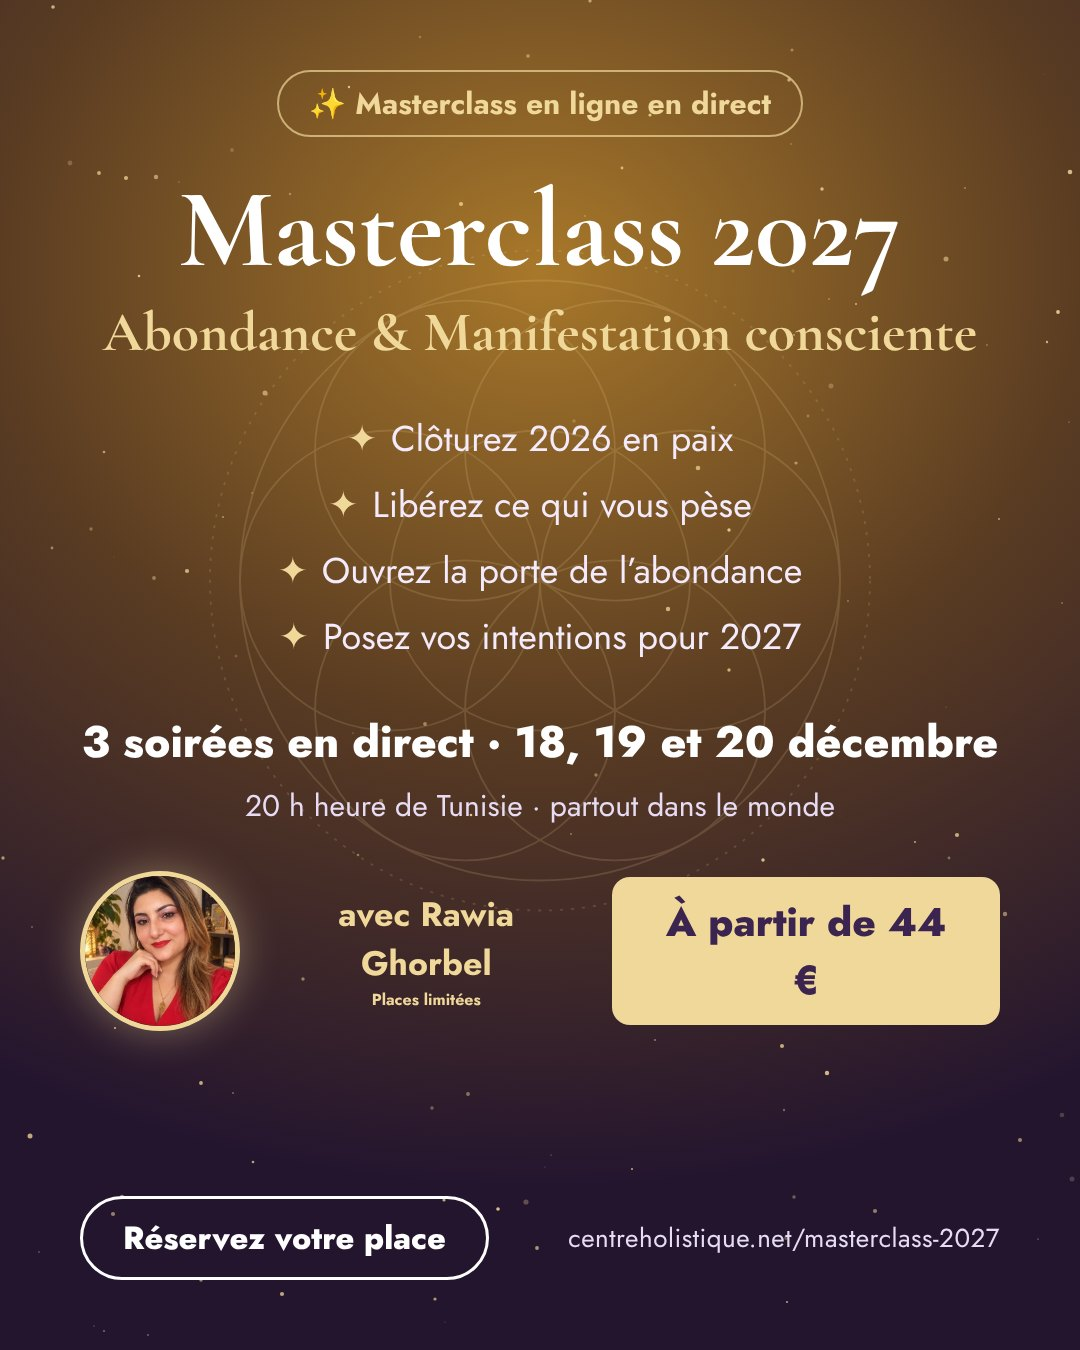
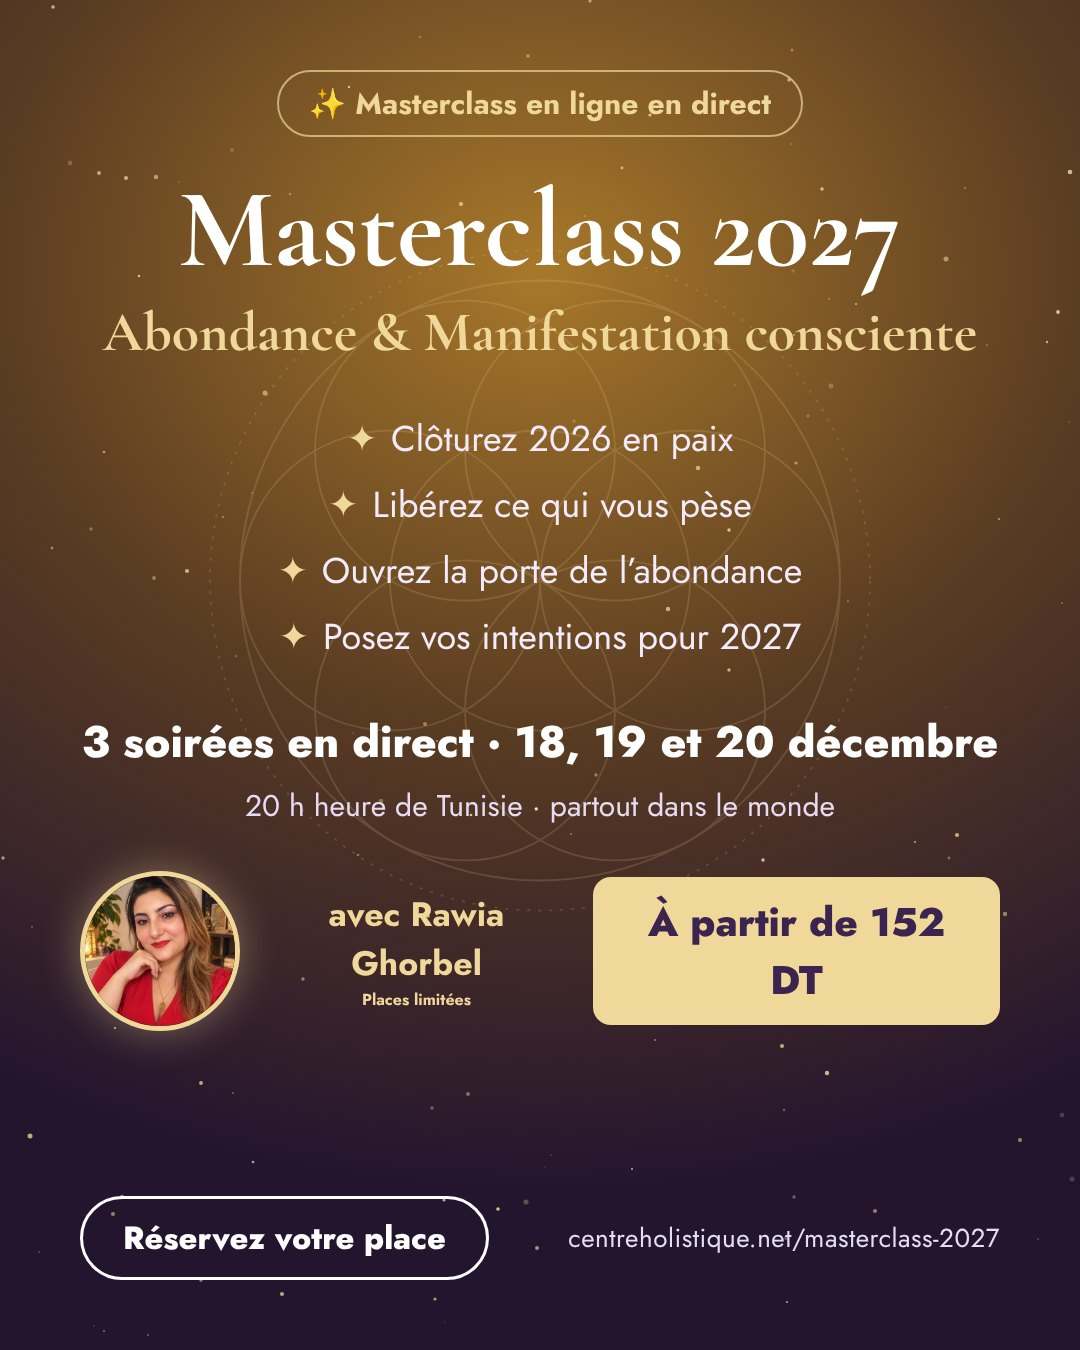
Masterclass: price shown in Tunisian dinars first (images and page)
Visitors using another currency also see the converted price in small.

Claude-Session: https://claude.ai/code/session_01ReMr7DWTXfkfywxMdPP7wi

Changed region(s): [[0.6111, 0.6533, 0.8861, 0.7467], [0.3056, 0.6533, 0.4889, 0.7467], [0.55, 0.6533, 0.5806, 0.7778]]

diff --git a/assets/masterclass.js b/assets/masterclass.js
@@ -94,8 +94,10 @@
     // two offers = the course levels (prices set in the dashboard: 🎓 courses)
     const c = course(), lv = (c && c.niveaux) || [], money = window.CH ? window.CH.money : (p => p && p.eur + ' €');
     const L = window.CH ? window.CH.L : (v => v && v.ar);
+    const tndOf = pr => (pr && pr.tnd && window.CH) ? window.CH.fmtMoney(+pr.tnd, 'tnd') : money(pr);
+    const priceHtml = pr => { const a = tndOf(pr), b = money(pr); return b && b !== a ? `${a} <small class="mc-alt">(≈ ${b})</small>` : a; };
     $('#k-offers').innerHTML = [0, 1].filter(i => lv[i]).map(i => `<article class="mc-offer${i === 1 ? ' vip' : ''}">${i === 1 ? `<span class="mc-badge">⭐ VIP</span>` : `<span class="mc-badge soft">${esc(m('most'))}</span>`}
-        <h3>${esc(L(lv[i].nom))}</h3><div class="mc-price">${money(lv[i].prix)}</div>
+        <h3>${esc(L(lv[i].nom))}</h3><div class="mc-price">${priceHtml(lv[i].prix)}</div>
         <ul>${m(i ? 'o2' : 'o1').map(x => `<li>${esc(x)}</li>`).join('')}</ul>
         <button class="btn ${i ? 'btn-gold' : 'btn-primary'} btn-block" data-mc="${i}">${esc(m('book'))}</button></article>`).join('');
     const tz = (window.CH && window.CH.tz) || Intl.DateTimeFormat().resolvedOptions().timeZone;
@@ -103,11 +105,11 @@
     const fx = $('#k-facts');
     if (fx) {
       const row = (ic, k, v) => `<li><span class="mc-f-ic" aria-hidden="true">${ic}</span><div><b>${esc(m(k))}</b><span>${esc(m(v))}</span></div></li>`;
-      const p0 = lv[0] ? money(lv[0].prix) : '', p1 = lv[1] ? money(lv[1].prix) : '';
+      const p0 = lv[0] ? tndOf(lv[0].prix) : '', p1 = lv[1] ? tndOf(lv[1].prix) : '', p0alt = lv[0] ? money(lv[0].prix) : '';
       const localT = !recorded() && fmtWhen(SESSIONS[0], tz) !== fmtWhen(SESSIONS[0], 'Africa/Tunis')
         ? `<li class="mc-f-local"><span class="mc-f-ic" aria-hidden="true">🌍</span><div><span>${esc(new Date(SESSIONS[0]).toLocaleTimeString(lg() === 'ar' ? 'ar-TN' : lg() === 'fr' ? 'fr-FR' : 'en-GB', { timeZone: tz, hour: '2-digit', minute: '2-digit' }))} · ${esc(tz)}</span></div></li>` : '';
       fx.innerHTML = `<h2 class="mc-f-t">${esc(m('f_title'))}</h2>
-        ${p0 ? `<div class="mc-f-price"><span>${esc(m('f_price'))}</span><strong>${p0}</strong>${p1 ? `<small>${esc(m('f_vip'))} <b>${p1}</b></small>` : ''}</div>` : ''}
+        ${p0 ? `<div class="mc-f-price"><span>${esc(m('f_price'))}</span><strong>${p0}</strong>${p0alt && p0alt !== p0 ? `<small class="mc-alt">≈ ${p0alt}</small>` : ''}${p1 ? `<small>${esc(m('f_vip'))} <b>${p1}</b></small>` : ''}</div>` : ''}
         <ul class="mc-f-list">${row('📅', 'f_dates', 'f_dates_v')}${row('🕗', 'f_time', 'f_time_v')}${localT}${row('💻', 'f_where', 'f_where_v')}${row('🎧', 'f_rec', 'f_rec_v')}${row('🗣', 'f_lang', 'f_lang_v')}</ul>
         <button class="btn btn-gold btn-block" data-mc="0">${esc(m('book'))}${p0 ? ' · ' + p0 : ''}</button>
         <a class="mc-f-more" href="#offres">${esc(m('f_compare'))}</a>
@@ -115,7 +117,7 @@
     }
     // show the price on the main hero button too (visible on the first screen on phones)
     const heroCta = document.querySelector('.hero-cta [data-k="cta"]');
-    if (heroCta && lv[0]) heroCta.innerHTML = `${esc(m('cta'))} · <bdi><b>${money(lv[0].prix)}</b></bdi>`;
+    if (heroCta && lv[0]) heroCta.innerHTML = `${esc(m('cta'))} · <bdi><b>${tndOf(lv[0].prix)}</b></bdi>`;
     $('#k-times').innerHTML = recorded() ? '' : SESSIONS.map((s, i) => `<li><b>${esc(m('days')[i][0].split(' · ')[0])}</b><span>${esc(fmtWhen(s, tz))}</span>${fmtWhen(s, tz) !== fmtWhen(s, 'Africa/Tunis') ? `<small>${esc(fmtWhen(s, 'Africa/Tunis'))} (${esc(m('tunis'))})</small>` : ''}</li>`).join('');
     $('#k-faq').innerHTML = m('faq').map(([q, r]) => `<details><summary>${esc(q)}</summary><p>${esc(r)}</p></details>`).join('');
     const portrait = window.CH && window.CH.getData() && (window.CH.getData().settings || {}).portrait;

diff --git a/masterclass-2027.html b/masterclass-2027.html
@@ -19,7 +19,7 @@
   <link rel="preconnect" href="https://fonts.googleapis.com">
   <link rel="preconnect" href="https://fonts.gstatic.com" crossorigin>
   <link href="https://fonts.googleapis.com/css2?family=Tajawal:wght@400;500;700;800&family=Cormorant+Garamond:wght@500;600&family=Jost:wght@400;500;600;700&display=swap" rel="stylesheet">
-  <link rel="stylesheet" href="assets/style.css?v=20261123b">
+  <link rel="stylesheet" href="assets/style.css?v=20261123c">
   <link rel="stylesheet" href="assets/seo.css?v=20261123a">
   <script type="application/ld+json">{"@context":"https://schema.org","@type":"Event","name":"Masterclass 2027 : Abondance & Manifestation consciente","startDate":"2026-12-18T20:00:00+01:00","endDate":"2026-12-20T21:30:00+01:00","eventAttendanceMode":"https://schema.org/OnlineEventAttendanceMode","eventStatus":"https://schema.org/EventScheduled","location":{"@type":"VirtualLocation","url":"https://www.centreholistique.net/masterclass-2027.html"},"image":"https://www.centreholistique.net/assets/promo/mc2027-og.jpg","organizer":{"@type":"Person","name":"Rawia Ghorbel","url":"https://www.centreholistique.net/rawia-ghorbel.html"},"offers":[{"@type":"Offer","price":"44","priceCurrency":"EUR","availability":"https://schema.org/InStock","url":"https://www.centreholistique.net/masterclass-2027.html"},{"@type":"Offer","price":"125","priceCurrency":"EUR","availability":"https://schema.org/InStock","url":"https://www.centreholistique.net/masterclass-2027.html"}],"inLanguage":["ar","fr"]}</script>
 </head>
@@ -166,6 +166,6 @@
 <script src="assets/app.js?v=20261123a"></script>
 <script src="assets/consent.js?v=20261123a"></script>
 <script src="assets/fx3d.js?v=20261123a" defer></script>
-<script src="assets/masterclass.js?v=20261123d"></script>
+<script src="assets/masterclass.js?v=20261123e"></script>
 </body>
 </html>

diff --git a/seo/build-promo.js b/seo/build-promo.js
@@ -12,11 +12,11 @@ const T = {
   ar: { dir: 'rtl', kicker: 'ماستركلاس مباشر عن بُعد', t1: 'ماستركلاس 2027', t2: 'الوفرة والتجلّي الواعي',
     lines: ['اختم 2026 بسلام', 'حرّر ما أثقلك', 'افتح باب الوفرة', 'ضع نواياك لعام 2027 بوعي'],
     when: '3 أمسيات مباشرة · 18 و19 و20 ديسمبر', time: 'الساعة 20:00 بتوقيت تونس · من أي مكان في العالم',
-    price: 'ابتداءً من 44 €', cta: 'احجز مقعدك', by: 'مع راوية غربال', seats: 'المقاعد محدودة', url: 'centreholistique.net/masterclass-2027' },
+    price: 'ابتداءً من 152 د.ت', cta: 'احجز مقعدك', by: 'مع راوية غربال', seats: 'المقاعد محدودة', url: 'centreholistique.net/masterclass-2027' },
   fr: { dir: 'ltr', kicker: 'Masterclass en ligne en direct', t1: 'Masterclass 2027', t2: 'Abondance & Manifestation consciente',
     lines: ['Clôturez 2026 en paix', 'Libérez ce qui vous pèse', 'Ouvrez la porte de l’abondance', 'Posez vos intentions pour 2027'],
     when: '3 soirées en direct · 18, 19 et 20 décembre', time: '20 h heure de Tunisie · partout dans le monde',
-    price: 'À partir de 44 €', cta: 'Réservez votre place', by: 'avec Rawia Ghorbel', seats: 'Places limitées', url: 'centreholistique.net/masterclass-2027' }
+    price: 'À partir de 152 DT', cta: 'Réservez votre place', by: 'avec Rawia Ghorbel', seats: 'Places limitées', url: 'centreholistique.net/masterclass-2027' }
 };
 function seed(r, stroke, op) {
   const c = [[0, 0]].concat([...Array(6)].map((_, i) => [r * Math.cos(i * Math.PI / 3), r * Math.sin(i * Math.PI / 3)]));

diff --git a/assets/style.css b/assets/style.css
@@ -761,3 +761,4 @@ h2{font-size:clamp(1.5rem,3vw,2rem)}
 .mc-f-more{display:block;text-align:center;margin-top:.6rem;font-size:.9rem;color:var(--primary);font-weight:600}
 .mc-f-dl{margin:.5rem 0 0;text-align:center;font-size:.82rem;color:#8a5a12;font-weight:600}
 @media (max-width:860px){.mc-days{grid-template-columns:1fr}}
+.mc-alt{font-size:.55em;font-weight:600;color:#8a7a6a}.mc-f-price small.mc-alt{flex-basis:auto;font-size:.85rem}
